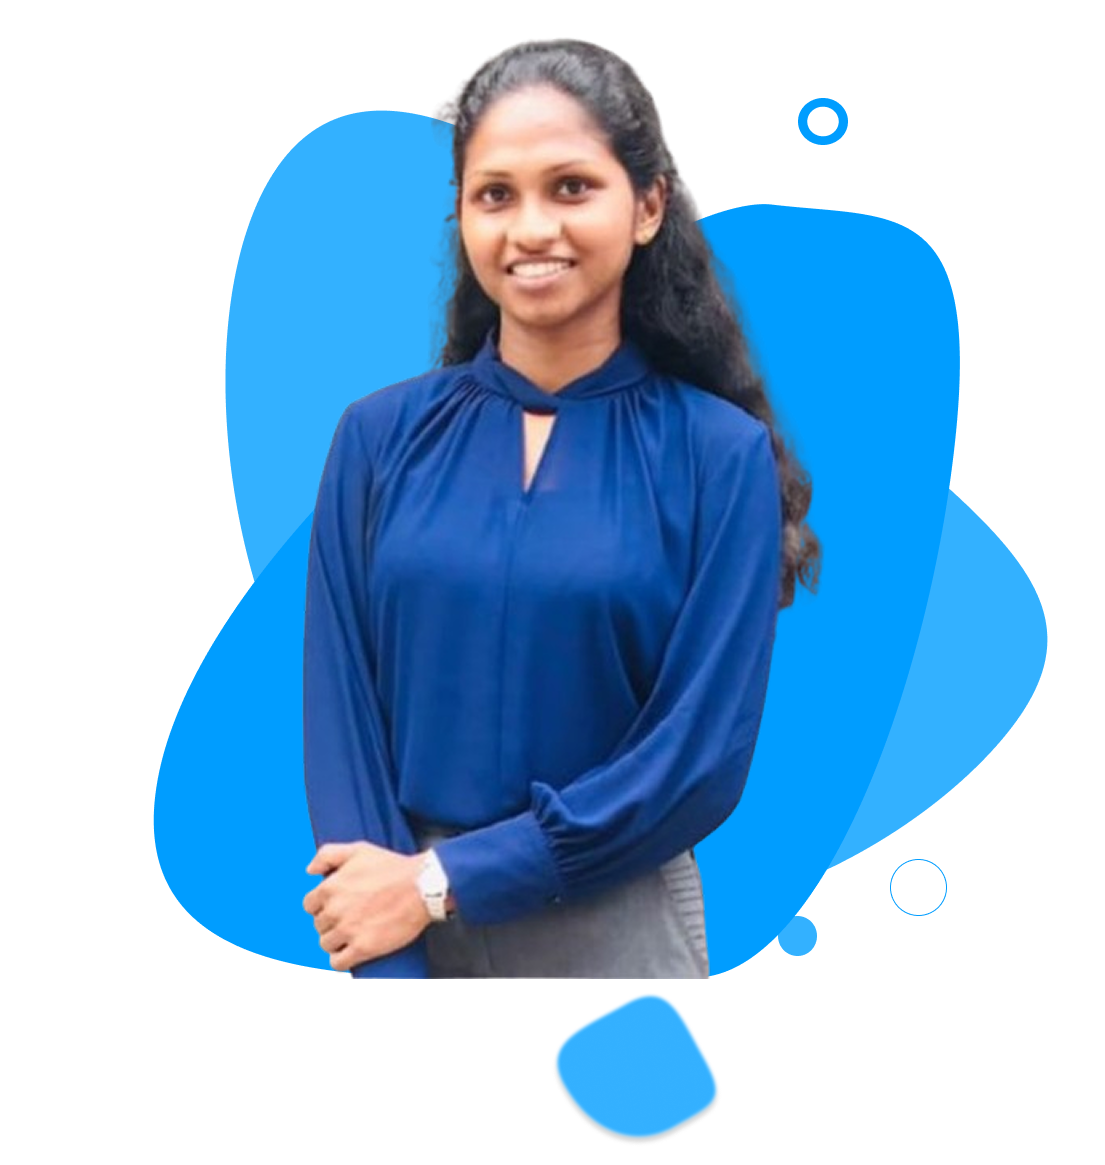
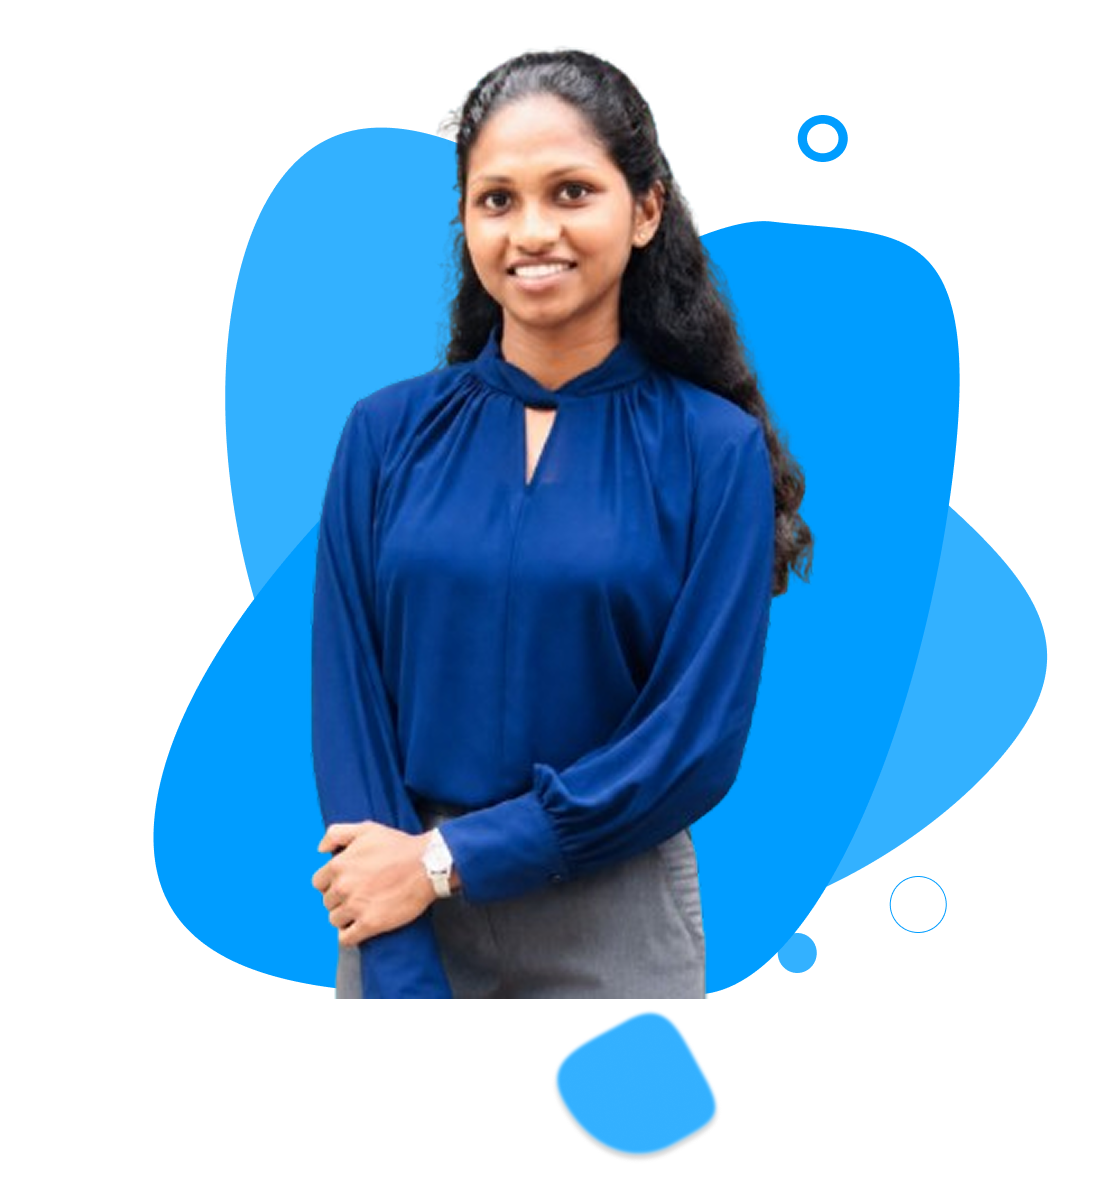
Update CV

diff --git a/src/sections/Home.tsx b/src/sections/Home.tsx
@@ -1,13 +1,13 @@
 import { useEffect, useState } from "react";
 import NavBar from "../components/NavBar";
 import SocialIcons from "../components/SocialIcons";
-import profileBackImage from "../assets/back.png";
+import profileBackImage from "../assets/profile.png";
 import { motion } from "framer-motion";
 import useAnimatedInView from "../hooks/useAnimatedInView";
 
 const MotionDiv = motion.div;
 
-const roles = ["Full Stack Developer", "Programmer", "UI/UX Designer"];
+const roles = ["Software Engineer", "Full Stack Developer", "Programmer", "UI/UX Designer"];
 
 const Home = () => {
   const [roleIndex, setRoleIndex] = useState(0);
@@ -88,9 +88,9 @@ const Home = () => {
           </h2>
           <div className="mt-6  lg:mt-10 flex flex-col md:flex-row ">
             <div className="text-center">
-              <button className="px-8 py-2 lg:px-5 text-[var(--primary)] rounded-4xl transition-all duration-200 bg-[var(--background)] button_shadow hover:button_shadow-hover hover:scale-105 cursor-pointer">
+              <button className="px-8 py-2 lg:px-5 text-[var(--primary)] text-xl font-medium rounded-4xl transition-all duration-200 bg-[var(--background)] button_shadow hover:button_shadow-hover hover:scale-105 cursor-pointer">
                 <a
-                  href="https://drive.google.com/file/d/1Yyjt60AzCpOqku4hCYm85D09fT_rsA29/view?usp=sharing"
+                  href="https://drive.google.com/file/d/1fVGnWLFz54AU5Y4Y0QKt07jRt5D_Mie_/view?usp=sharing"
                   download="Shashini_Aluthge_CV.pdf"
                   target="_blank"
                 >

diff --git a/src/components/NavBar.tsx b/src/components/NavBar.tsx
@@ -78,19 +78,19 @@ const NavBar = () => {
           </Link>
         </div>
         <button
-          className="hidden lg:block px-5 py-2 text-[var(--primary)] rounded-4xl transition-all duration-200 bg-[var(--background)] button_shadow hover:button_shadow-hover hover:scale-105 cursor-pointer"
+          className="hidden lg:block px-8 py-2 text-[var(--primary)] text-xl  rounded-4xl transition-all duration-200 bg-[var(--background)] button_shadow hover:button_shadow-hover hover:scale-105 cursor-pointer"
           onClick={() => {
             const contactSection = document.getElementById("contact");
             if (contactSection) {
               window.scrollTo({
                 top: contactSection.offsetTop - 50,
                 behavior: "smooth",
-                
+
               });
             }
           }}
         >
-          Connect me
+          Hire Me
         </button>
 
         <button
